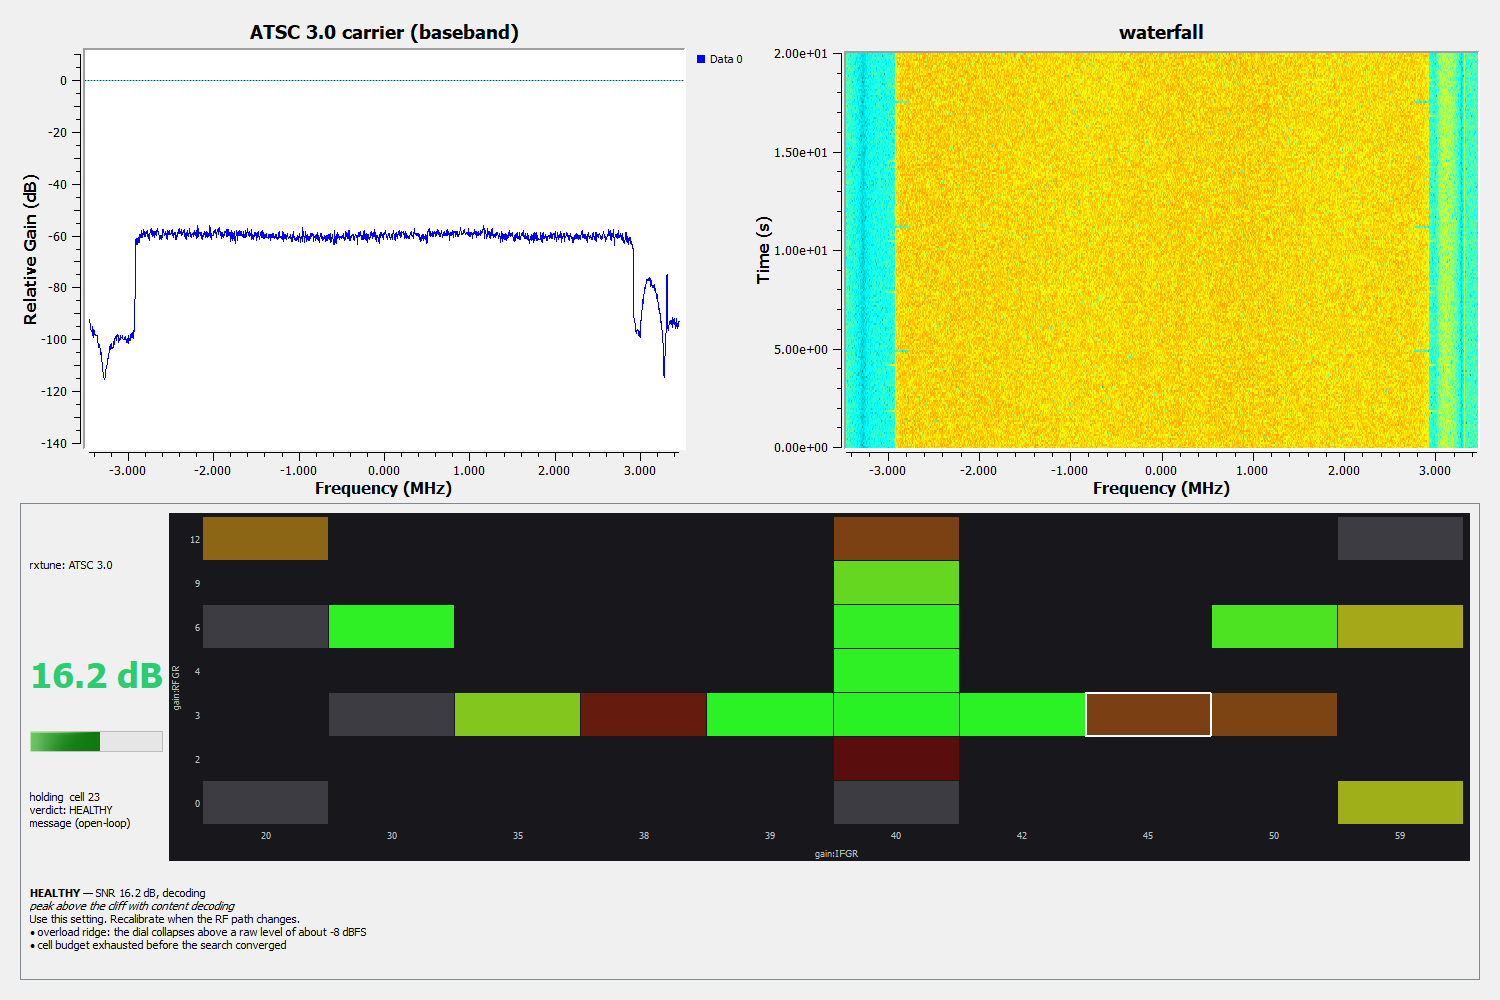
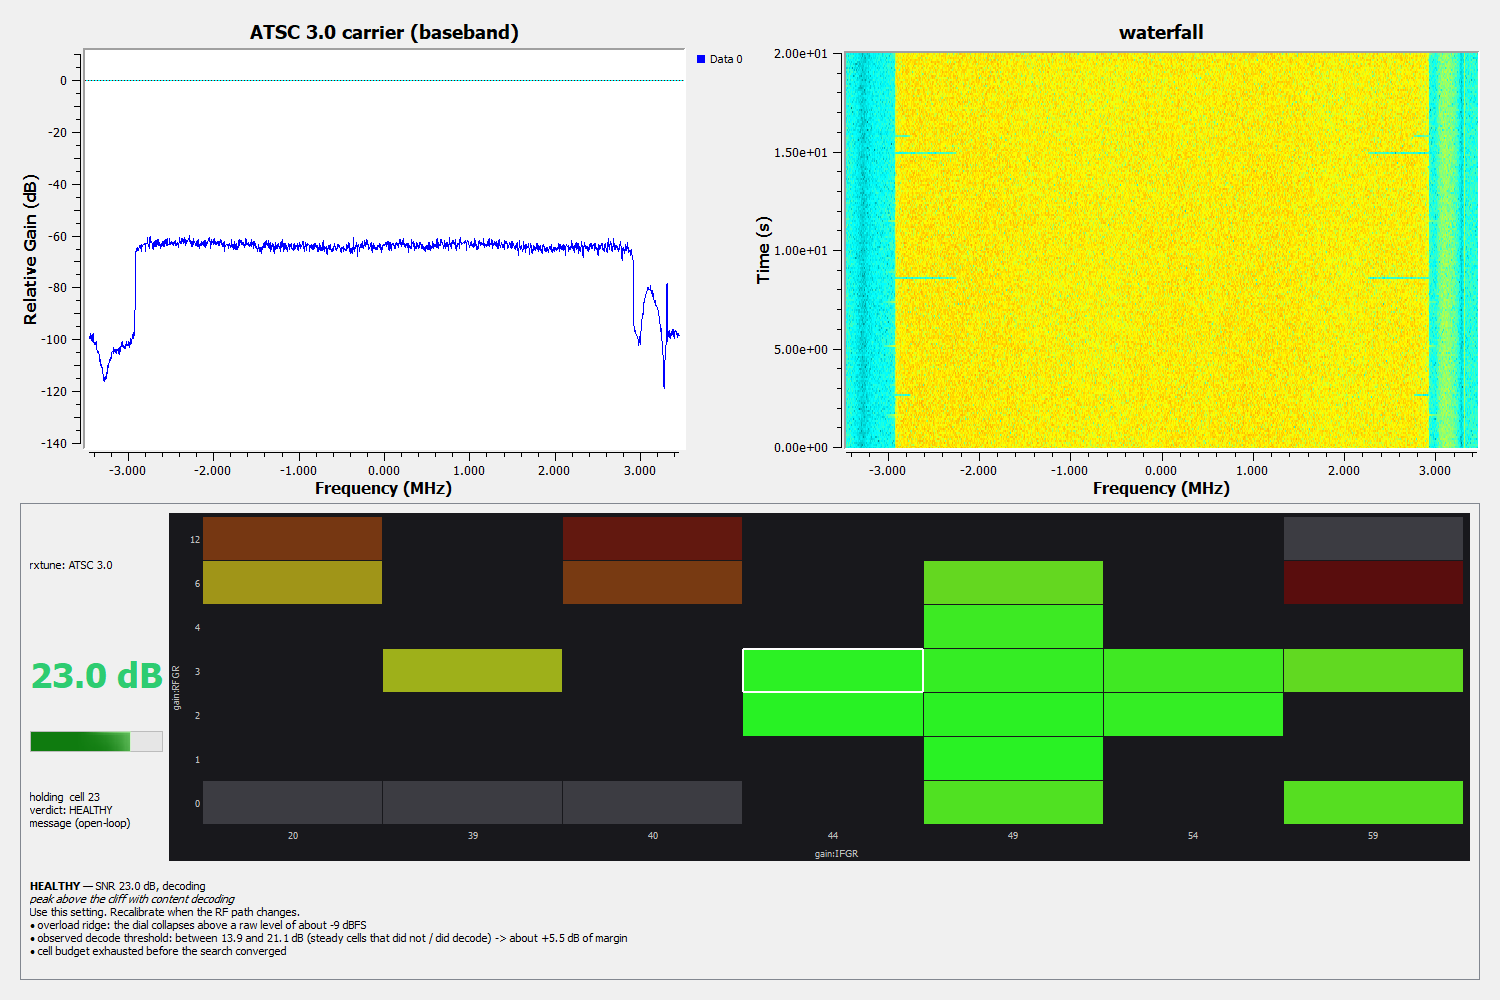
apply() writes every knob despite one failure; night_watch takes a JSON targets file; publishable ATSC 3.0 GRC screenshots; test report: second hardware campaign

diff --git a/src/rxtune/knob.py b/src/rxtune/knob.py
@@ -108,14 +108,26 @@ def apply(frontend: Frontend, setting: Setting, current: Optional[Setting] = Non
     """Write only what changed; return the longest settle time incurred."""
     knobs = frontend.knobs()
     settle = 0.0
+    failures = []
     for name, value in setting.items():
         if current is not None and current.get(name) == value:
             continue
         knob = knobs[name]
-        knob.set(value)
+        try:
+            knob.set(value)
+        except KnobWriteError as e:
+            # ONE bad knob must not stop the others being written. (Found on hardware: a
+            # mangled antenna name failed its readback first, the gain knobs were then
+            # never written, and a whole night would have been measured at one gain.)
+            failures.append(str(e))
+            continue
         settle = max(settle, knob.spec.settle_s)
         if current is not None:
             current[name] = value
+    if failures:
+        err = KnobWriteError("; ".join(failures))
+        err.settle_s = settle
+        raise err
     return settle
 
 

diff --git a/util/night_watch.py b/util/night_watch.py
@@ -60,11 +60,17 @@ def main():
     ap.add_argument("--every", type=float, default=40.0, help="minutes between rounds")
     ap.add_argument("--out", default="runs/night")
     ap.add_argument("--target", action="append", default=[], help="a tuning command (quoted)")
+    ap.add_argument("--targets-file", help="JSON: a list of argv lists. No shell quoting to get wrong "
+                                           "(an antenna port called \"Antenna A\" will find a way).")
     ap.add_argument("--report", metavar="DIR")
     a, rest = ap.parse_known_args()
     if a.report:
         return report(a.report)
-    targets = [shlex.split(t, posix=False) for t in a.target]
+    # posix=True so that quotes GROUP and are removed ("Antenna A" stays one argument);
+    # use forward slashes in paths, since a backslash is an escape here
+    targets = [shlex.split(t, posix=True) for t in a.target]
+    if a.targets_file:
+        targets += json.load(open(a.targets_file, encoding="utf-8"))
     if rest and rest[0] == "--":
         targets.append(rest[1:])
     if not targets:

diff --git a/tests/test_core.py b/tests/test_core.py
@@ -376,3 +376,19 @@ def test_plumbing_is_never_claimed_without_a_known_cliff():
     t = Tuner([axis], spec, confirm=False)
     v = judge(t.run(measure), spec, t.gain_of)
     assert v.shape is Shape.BELOW_CLIFF and not v.ok
+
+
+def test_one_failed_knob_does_not_stop_the_others_being_written():
+    from rxtune.knob import apply
+    box = {"ant": "A", "g": 0}
+
+    class FE:
+        def knobs(self):
+            return {"antenna": FunctionKnob(KnobSpec("antenna", "choice", choices=("A", "B")),
+                                            lambda v: None, lambda: box["ant"]),          # ignores writes
+                    "g": FunctionKnob(KnobSpec("g", "range", 0, 9, 1), lambda v: box.update(g=v),
+                                      lambda: box["g"])}
+    with pytest.raises(KnobWriteError) as e:
+        apply(FE(), {"antenna": "B", "g": 7})
+    assert box["g"] == 7, "the gain knob must still have been written"
+    assert "antenna" in str(e.value)

diff --git a/src/rxtune/loop.py b/src/rxtune/loop.py
@@ -106,8 +106,9 @@ def tune(frontend: Frontend, dial: Dial, liveness: Optional[Liveness] = None, *,
         try:
             settle = apply(frontend, {**(fixed or {}), **setting}, current)
         except KnobWriteError as e:
-            failed[str(e).split(":")[0]] = failed.get(str(e).split(":")[0], 0) + 1
-            settle = 0.0
+            for part in str(e).split("; "):
+                failed[part.split(":")[0]] = failed.get(part.split(":")[0], 0) + 1
+            settle = getattr(e, "settle_s", 0.0)
         reading = measurer.measure(extra_settle_s=settle + dial.spec.settle_s, window_scale=scale)
         if health is not None:
             problem = health()

diff --git a/docs/TEST_REPORT.md b/docs/TEST_REPORT.md
@@ -13,19 +13,21 @@ How to repeat everything is at the end.
 
 | Area | Result |
 |---|---|
-| Core library, no radio (pytest) | **118 passed**, 0 failed |
+| Core library, no radio (pytest) | **124 passed**, 0 failed |
 | `rxtune selftest` | **13 / 13 gates PASS** |
-| GNU Radio block QA (8 files) | **20 passed**, 0 failed |
+| GNU Radio block QA (9 files) | **22 passed**, 0 failed |
 | Closed loop over stock DSP, headless, no Qt | **PASS** |
 | GRC examples compile (`grcc`) | **2 / 2** |
 | Qt flowgraph beside stock gr-qtgui widgets | **8 / 8 checks PASS**, offscreen and on a real display |
 | Source-block command compatibility | gr-soapy **tested on hardware**; gr-osmosdr tested on the real block (file source); gr-uhd **not testable here** |
 | Hardware: FM HD (NRSC-5), attachment mode (a) | **PASS** on the third run — HEALTHY, decoding, agrees with an independent prior calibration (runs 1-2 found 3 defects) |
 | Hardware: ATSC 1.0, attachment mode (c) | **PASS** — HEALTHY, +2.9 dB, decoding. Graceful decoder stop FAILED 16 / 27 in the first run; fixed; re-test 0 / 7 |
+| Hardware: ATSC 3.0 (library AND in a GRC flowgraph), port survey, TV in a GNU Radio window | **PASS** - see 6b |
+| Hardware: ADS-B (blind dial) | **INCONCLUSIVE** - too little night traffic; to be repeated |
 | CMake install | **NOT RUN** (no cmake on this machine) |
 | Linux / Raspberry Pi | **NOT RUN** |
 
-Thirteen defects were found by this testing and fixed; three defects were found in
+Twenty defects were found by this testing and fixed; three defects were found in
 *other people's* blocks and are written up in §8.
 
 ## 1. Core library (`pytest`, 118 tests, ~4 s)
@@ -228,6 +230,49 @@ searched (the FM run had already shown states beyond that to be deaf on this rad
 - Mode (c) has no sample view, so there is no level and no rail count: the run is now
   labelled **open-loop** (it was mislabelled closed-loop during the run; defect 13).
 
+## 6b. Second hardware campaign (night of 2026-09-20/21): ATSC 3.0, port survey, ADS-B
+
+A third attachment flavour was built for this: **capture per cell** (`attach.CaptureMeasurer`,
+and the GNU Radio **Capture Dial** block). rxtune owns the radio, records a few seconds at
+each setting, and the decoder's own OFFLINE tools judge the file - two at once: a continuous
+dial, and an actual decode as liveness. The ATSC 3.0 receiver used is an external
+pure-Python project that was not modified; rxtune only runs its commands.
+
+| Run | Result |
+|---|---|
+| ATSC 3.0, strong UHF carrier, library, blind full-span grid (LNA 0-27 x IF 20-59) | **HEALTHY, 23.2 dB SNR, 3034/3034 LDPC blocks BCH-clean.** Pick within ONE LNA state of the receiver project's own hand-measured, independently stored answer. 35 cells, stream 1.000, 0 void captures. |
+| same carrier, **inside a GRC flowgraph** (`examples/atsc3_live.grc`): Soapy source + stock frequency / waterfall sinks + Capture Dial + Controller (`soapy` dialect) + Dashboard | **HEALTHY, decoding**, 22 cells, 695 s. Every gain write went to the Soapy source **by message, per element**, and the raw level followed each one. Screenshots: `docs/img/atsc3_live_*.png`. |
+| the curve finds the cliff | With no threshold given, steady cells at 14.65 dB did not decode and 16.9 dB did: the verdict now reports an *observed decode threshold* and the margin over it. The receiver project's own notes put this carrier's cliff at about 15 dB. |
+| ATSC 3.0, weak LDM carrier, two different TV antennas | **NO_SIGNAL** on both: the receiver locks the frame structure (FEC blocks are found) but not one block decodes at any gain, and no SNR can be read. Reported as such; nothing recommended. |
+| ATSC 3.0, VHF-high carrier on a wideband discone | Best cell 7.6 dB SNR, nothing decodes. First run called this `PLUMBING` - **wrong** (defect 17); now `BELOW_CLIFF`. Still useful: the receiver project had no measured gain for this carrier at all. |
+| **Port survey on hardware** (stage 3+4), three ports, one carrier | UHF antenna 22.8 dB, second TV antenna 22.3 dB, discone NO_SIGNAL at UHF; picked the first and tuned it to 23.1 dB, decoding. |
+| **TV inside a GNU Radio window** (`examples/hw_atsc3_tv_window.py`) | **Worked first try.** GNU Radio owns the radio, streams IQ to a growing file, the external receiver decodes it in real time, and the player renders INTO a pane of the flowgraph window; gain from the rxtune verdict. 110 s, 6.1 GB streamed. (Screenshot kept out of the repository: broadcast content.) |
+| **ADS-B at 1090 MHz: the first BLIND dial on hardware** | **INCONCLUSIVE, and says so.** 2 CRC-valid messages in 22 cells at 1 a.m.: Poisson noise, not a ranking. The verdict now refuses to rank on fewer than 200 decoded messages (defect 19). Head-to-head vs maximum gain and hardware AGC: 0.0 / 0.0 / 0.0 msgs/s. To be repeated with daytime traffic. |
+
+**What failed on the way, and why it matters**
+- *My pipe into dump1090 read zero messages while another decoder heard three aircraft on the same
+  antenna.* Cause: converting 16-bit samples to the customary unsigned 8-bit format. At a realistic
+  -56 dBFS a Mode S pulse is under ONE LSB of 8 bits. (And the only dump1090 build to hand
+  segfaulted on 16-bit file input.) Lesson, now in the docs: feed decoders the radio's native width.
+- *The first three GRC hardware runs produced nothing.* (1) GRC-generated code did
+  `import rxtune.recipes`, rebinding the name `rxtune`, which was already the GNU Radio module;
+  (2) a relative capture path, judged by subprocesses with another working directory;
+  (3) **the capture block could not keep up**: converting every sample in Python at 6.9 MS/s made the
+  Soapy source overflow, and the file was garbage *of exactly the right length* because I had counted
+  samples, not time - a violation of this project's own capture-integrity rule. Now: raw cf32, a
+  decimated level look, and any capture with samples != wall x fs is VOID.
+- *Port-survey mode hard-crashed the process* (no traceback) and left the device "unavailable" for
+  minutes, killing the next two runs: the interferer census opened a SECOND stream while one was
+  running. The frontend now refuses.
+- *A pick that did not reproduce.* Bursty interference (5-7 dB p10..p90 in some cells) made a cell read
+  ~21 dB once and 16.2 dB on confirmation, beside neighbours holding 22. The search now re-picks when
+  a confirmation falls short, and prefers steady cells among ties.
+- *The site lock was released under a running stream*: a script held the lock, passed it to `tune()`,
+  and `tune()`'s exit released it. The adapter is now re-entrant.
+
+Not done: the bias-T / hot-LNA case (no LNA was inline; DC was not put on a passive antenna).
+Overnight recalibration results: see the end of this section once the run completes.
+
 ## 7. Defects found by this testing, all fixed
 
 1. Pattern search compared against a falsy `0.0` score.
@@ -249,6 +294,14 @@ searched (the FM run had already shown states beyond that to be deaf on this rad
     cell that did decode exists; it stays in the curve as evidence.
 13. Restart-per-cell mode echoed its own requests back as "readback" and so called
     itself closed-loop.
+14. "Island" was judged on the width of the near-best region; a sharp peak with 9 dB of margin is
+    not fragile. With a known cliff it is now the span that clears the cliff.
+15. The site-lock adapter was not re-entrant (released the radio under a running stream).
+16. The interferer census opened a second stream on a streaming device (hard crash).
+17. `PLUMBING` was claimed with no known cliff; it needs evidence that the dial is ABOVE threshold.
+18. A pick whose confirmation did not reproduce was allowed to stand.
+19. A message-rate dial ranked settings on two messages; now needs 200.
+20. The GNU Radio capture block converted every sample in Python and dropped samples silently.
 
 Also caught in the test harness itself: a rate probe goes *stale*, not to zero,
 when its upstream dies (so it cannot detect a stopped source — count items
